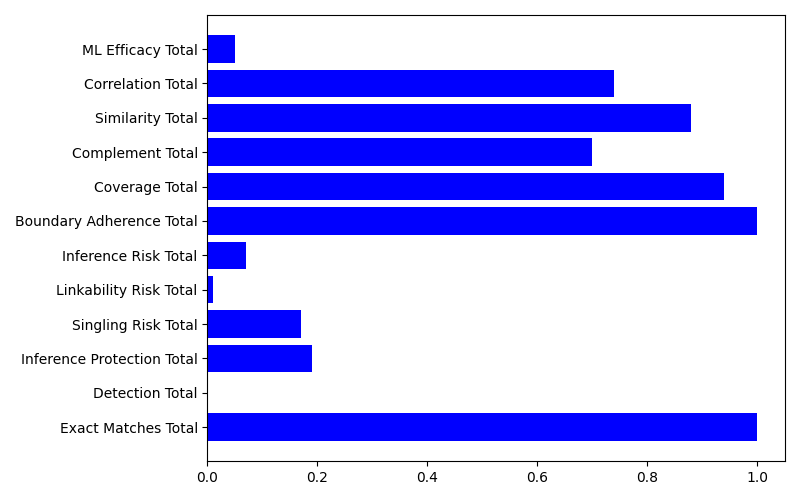
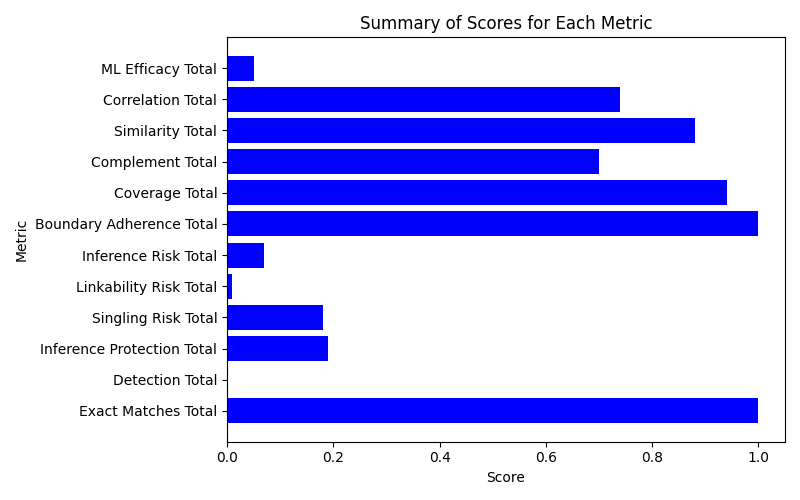
changes

Changed region(s): [[0.0, 0.06, 0.9688, 0.96], [0.4375, 0.03, 0.8125, 0.06]]

diff --git a/evaluate/report.py b/evaluate/report.py
@@ -3,19 +3,13 @@ from reportlab.lib.pagesizes import A4
 from reportlab.lib import colors
 from reportlab.platypus import SimpleDocTemplate, Paragraph, Table, TableStyle, Image
 from reportlab.lib.styles import getSampleStyleSheet, ParagraphStyle
+from reportlab.lib.enums import TA_CENTER
+from reportlab.platypus import PageBreak
 from io import BytesIO
 import pandas as pd
 from evaluate.visualisation import combine_dicts
-
-# Function to create a Matplotlib figure
-def create_matplotlib_figure():
-    fig, ax = plt.subplots()
-    ax.plot([1, 2, 3, 4], [1, 4, 2, 3], label="Sample Plot")
-    ax.set_title("Sample Matplotlib Plot")
-    ax.set_xlabel("X-Axis")
-    ax.set_ylabel("Y-Axis")
-    ax.legend()
-    return fig
+from evaluate.visualisation import table_vis
+from evaluate.visualisation import attribute_vis
 
 # Save the Matplotlib figure to an image in memory
 def save_figure_to_image(fig):
@@ -40,14 +34,7 @@ def create_metric_table(privacy_scores, quality_scores, utility_scores):
     utility_df['Utility Metrics'] = utility_df['Utility Metrics'].str.replace(r'\bTotal\b', '', regex=True).str.strip()
     
     df = pd.concat([privacy_df, quality_df, utility_df], axis=1)
-    #df = df.fillna('-', inplace=True)
-    
-    #combined = combine_dicts(privacy_scores, quality_scores, utility_scores)
-    #total_combined = {key: value for key, value in combined.items() if 'Total' in key}
-    #x = list(total_combined.keys())
-    #y = list(total_combined.values())
-    #data = {'Metric Name': x, 'Score': y}
-    #df = pd.DataFrame(data)
+
     return df
 
 # Create the PDF report with text, a table, and a plot
@@ -57,7 +44,8 @@ def create_pdf_report(privacy_scores, quality_scores, utility_scores, data_colum
 
     styles = getSampleStyleSheet()
     content = []
-    subtitle_style = ParagraphStyle(name='Subtitle', fontSize=14, spaceAfter=10, textColor=colors.blue)
+    subtitle_style = ParagraphStyle(name='Subtitle', fontSize=14, spaceAfter=10, textColor=colors.blue, alignment=TA_CENTER, fontName='Helvetica')
+    subtitle_style2 = ParagraphStyle(name='Subtitle', fontSize=10, spaceAfter=10, textColor=colors.black, fontName='Helvetica-Bold')
 
     content.append(Paragraph("Synthetic Data Evaluation Report", styles['Title']))
     content.append(Paragraph("This report details the quality, privacy and utility evaluation metrics gained from the synthetic data, and visualisations to help interpret them. \n", styles['Normal']))
@@ -66,7 +54,7 @@ def create_pdf_report(privacy_scores, quality_scores, utility_scores, data_colum
 
     df = create_metric_table(privacy_scores, quality_scores, utility_scores)
     table_data = [df.columns.tolist()] + df.values.tolist()
-    table = Table(table_data, hAlign='LEFT')
+    table = Table(table_data, hAlign='CENTER')
     table.setStyle(TableStyle([
         ('BACKGROUND', (0, 0), (-1, 0), colors.blue),
         ('TEXTCOLOR', (0, 0), (-1, 0), colors.white),
@@ -80,10 +68,28 @@ def create_pdf_report(privacy_scores, quality_scores, utility_scores, data_colum
 
     content.append(Paragraph("<br/><br/>", styles['Normal']))
 
-    fig = create_matplotlib_figure()
+    fig = table_vis(privacy_scores, quality_scores, utility_scores)
     img_data = save_figure_to_image(fig)
-    img = Image(img_data, width=400, height=300)  # Specify the width and height of the image in the PDF
+    img = Image(img_data, width=400, height=250)  #  Specify the width and height of the image in the PDF
     content.append(img)
+
+    content.append(Paragraph("<br/><br/>", styles['Normal']))
+    level = 'Correlated Synthetic Data'
+    content.append(Paragraph(f"Synthetic Data Categorisation Level: {level}", subtitle_style2))
+    content.append(Paragraph("Correlated Synthetic Data is categorised as the highest risk due to capturing information about relationships and patterns between variables. Therefore, the privacy metrics should be evaluated carefully to ensure individuals arent at risk of being identifiable.", styles['Normal']))
+
+    content.append(PageBreak())
+
+    content.append(Paragraph("(Quality) Boundary Adherence Scores", subtitle_style))
+    content.append(Paragraph("Boundary adherence measures whether values stay within the original min/max ranges of the data. \n 0.0: means none of the attributes have the same min/max ranges \n 1.0: means all attributes have the same min/max ranges", styles['Normal']))
+
+    content.append(Paragraph("<br/><br/>", styles['Normal']))
+
+    fig = attribute_vis("Boundary Adherence Individual", quality_scores, data_columns)
+    img_data = save_figure_to_image(fig)
+    img = Image(img_data, width=504, height=216)  #  Specify the width and height of the image in the PDF
+    content.append(img)
+    
 
     pdf.build(content)
     print(f"PDF report created: {pdf_file}")

diff --git a/evaluate/visualisation.py b/evaluate/visualisation.py
@@ -9,6 +9,8 @@ def combine_dicts(*dicts):
 
 def table_vis(privacy_scores, quality_scores, utility_scores):
 
+    fig, ax = plt.subplots(figsize=(8, 5))
+
     combined = combine_dicts(privacy_scores, quality_scores, utility_scores)
     total_combined = {key: value for key, value in combined.items() if 'Total' in key}
 
@@ -16,23 +18,69 @@ def table_vis(privacy_scores, quality_scores, utility_scores):
     y = list(total_combined.values())
 
     # Create a plot
-    plt.figure(figsize=(8, 5))
-    plt.barh(x, y, color='b')
+    #plt.figure(figsize=(8, 5))
+    ax.barh(x, y, color='b')
 
-    plt.tight_layout()
-    plt.savefig("/workspaces/SynthOpt/output/table_vis.png")
+    ax.set_xlabel('Score')
+    ax.set_ylabel('Metric')
+    ax.set_title('Summary of Scores for Each Metric')
 
-def attribute_vis(privacy_scores, quality_scores, utility_scores, data_columns):
+    fig.tight_layout()
+    fig.savefig("/workspaces/SynthOpt/output/table_vis.png")
+
+    return fig
+
+def attribute_vis(metric_name, scores, data_columns):
     # SHOW TOP 20 AND BOTTOM 20
     # Maybe add x and y to a dictionary to then be able to sort
 
-    combined = combine_dicts(privacy_scores, quality_scores, utility_scores)
-    total_combined = {key: value for key, value in combined.items() if 'Individual' in key}
+    #total_combined = {key: value for key, value in combined.items() if 'Individual' in key}
     
-    boundary_adherence = total_combined['Boundary Adherence Individual']
-    x = list(data_columns)
-    y = list(boundary_adherence)
-    plt.figure(figsize=(5, 9))
-    plt.barh(x, y, color='b')
+    #boundary_adherence = total_combined['Boundary Adherence Individual']
+    #x = list(data_columns)
+    #y = list(boundary_adherence)
+    #plt.figure(figsize=(5, 9))
+    #plt.barh(x, y, color='b')
+    #plt.tight_layout()
+    #plt.savefig("/workspaces/SynthOpt/output/attribute_boundary_adherence_vis.png")
+
+
+    y = scores.get(metric_name, [])
+    
+    # Check if the lengths of data_columns and y match
+    if len(data_columns) != len(y):
+        raise ValueError("Length of data_columns and the values for the selected score_name do not match.")
+    
+    # Combine the variables and values into a list of tuples
+    combined = list(zip(data_columns, y))
+    
+    # Sort the combined list by the values in descending order
+    combined_sorted = sorted(combined, key=lambda pair: pair[1], reverse=True)
+    
+    # Split into top 10 and bottom 10
+    top_10 = combined_sorted[:10]
+    bottom_10 = combined_sorted[-10:]
+    
+    # Extract names and values for top 10 and bottom 10
+    top_10_names, top_10_values = zip(*top_10)
+    bottom_10_names, bottom_10_values = zip(*bottom_10)
+    
+    # Create a figure with two subplots side by side
+    fig, axs = plt.subplots(1, 2, figsize=(14, 6))
+
+    # Plot the top 10 variables
+    axs[0].barh(top_10_names, top_10_values, color='blue')
+    axs[0].set_title(f'Top 10 Variables for {metric_name}')
+    axs[0].invert_yaxis()  # Highest values at the top
+    axs[0].set_xlabel('Value')
+    
+    # Plot the bottom 10 variables
+    axs[1].barh(bottom_10_names, bottom_10_values, color='red')
+    axs[1].set_title(f'Bottom 10 Variables for {metric_name}')
+    axs[1].invert_yaxis()  # Lowest values at the top
+    axs[1].set_xlabel('Value')
+
+    # Adjust layout for clarity
     plt.tight_layout()
-    plt.savefig("/workspaces/SynthOpt/output/attribute_boundary_adherence_vis.png")
+
+    return fig

diff --git a/test.py b/test.py
@@ -91,6 +91,4 @@ vis_data = vis_data.drop(columns=[IDENTIFIER_COLUMN])
 
 DATA_COLUMNS = vis_data.columns
 
-attribute_vis(privacy_scores, quality_scores, utility_scores, DATA_COLUMNS) # maybe pass in data instead of columns to handle the identifier column and multi 
-
 create_pdf_report(privacy_scores, quality_scores, utility_scores, DATA_COLUMNS)
